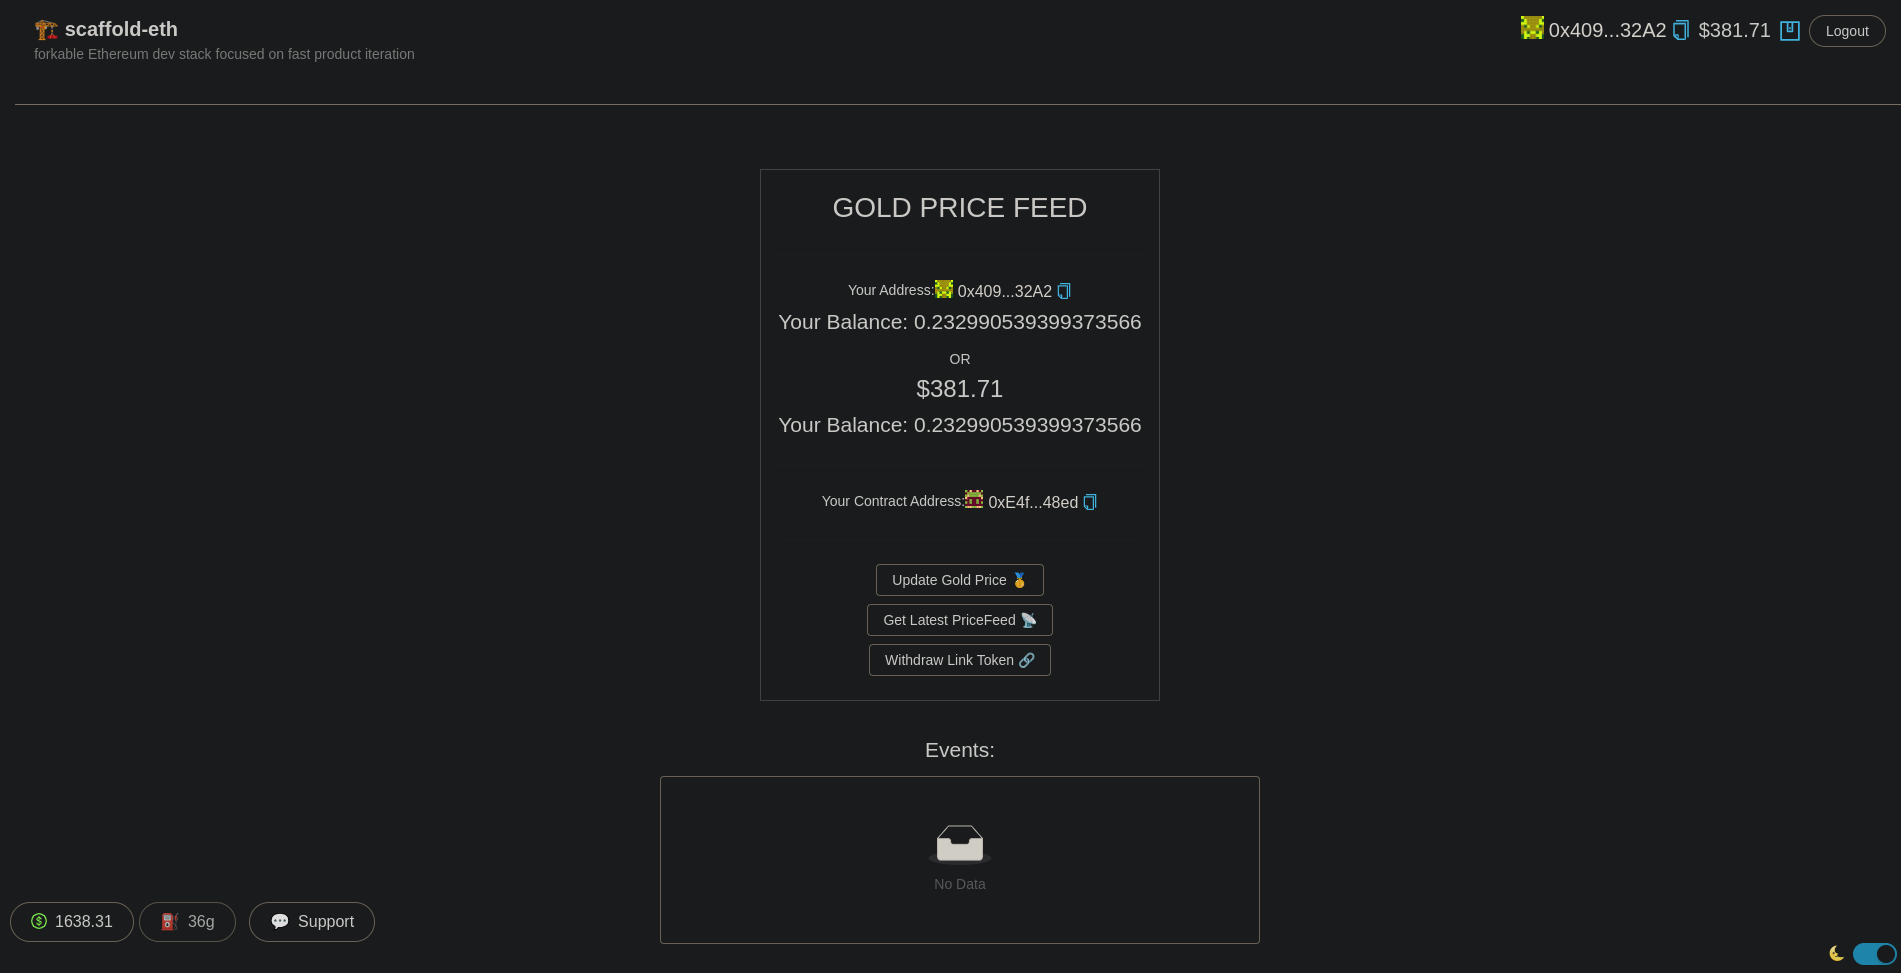
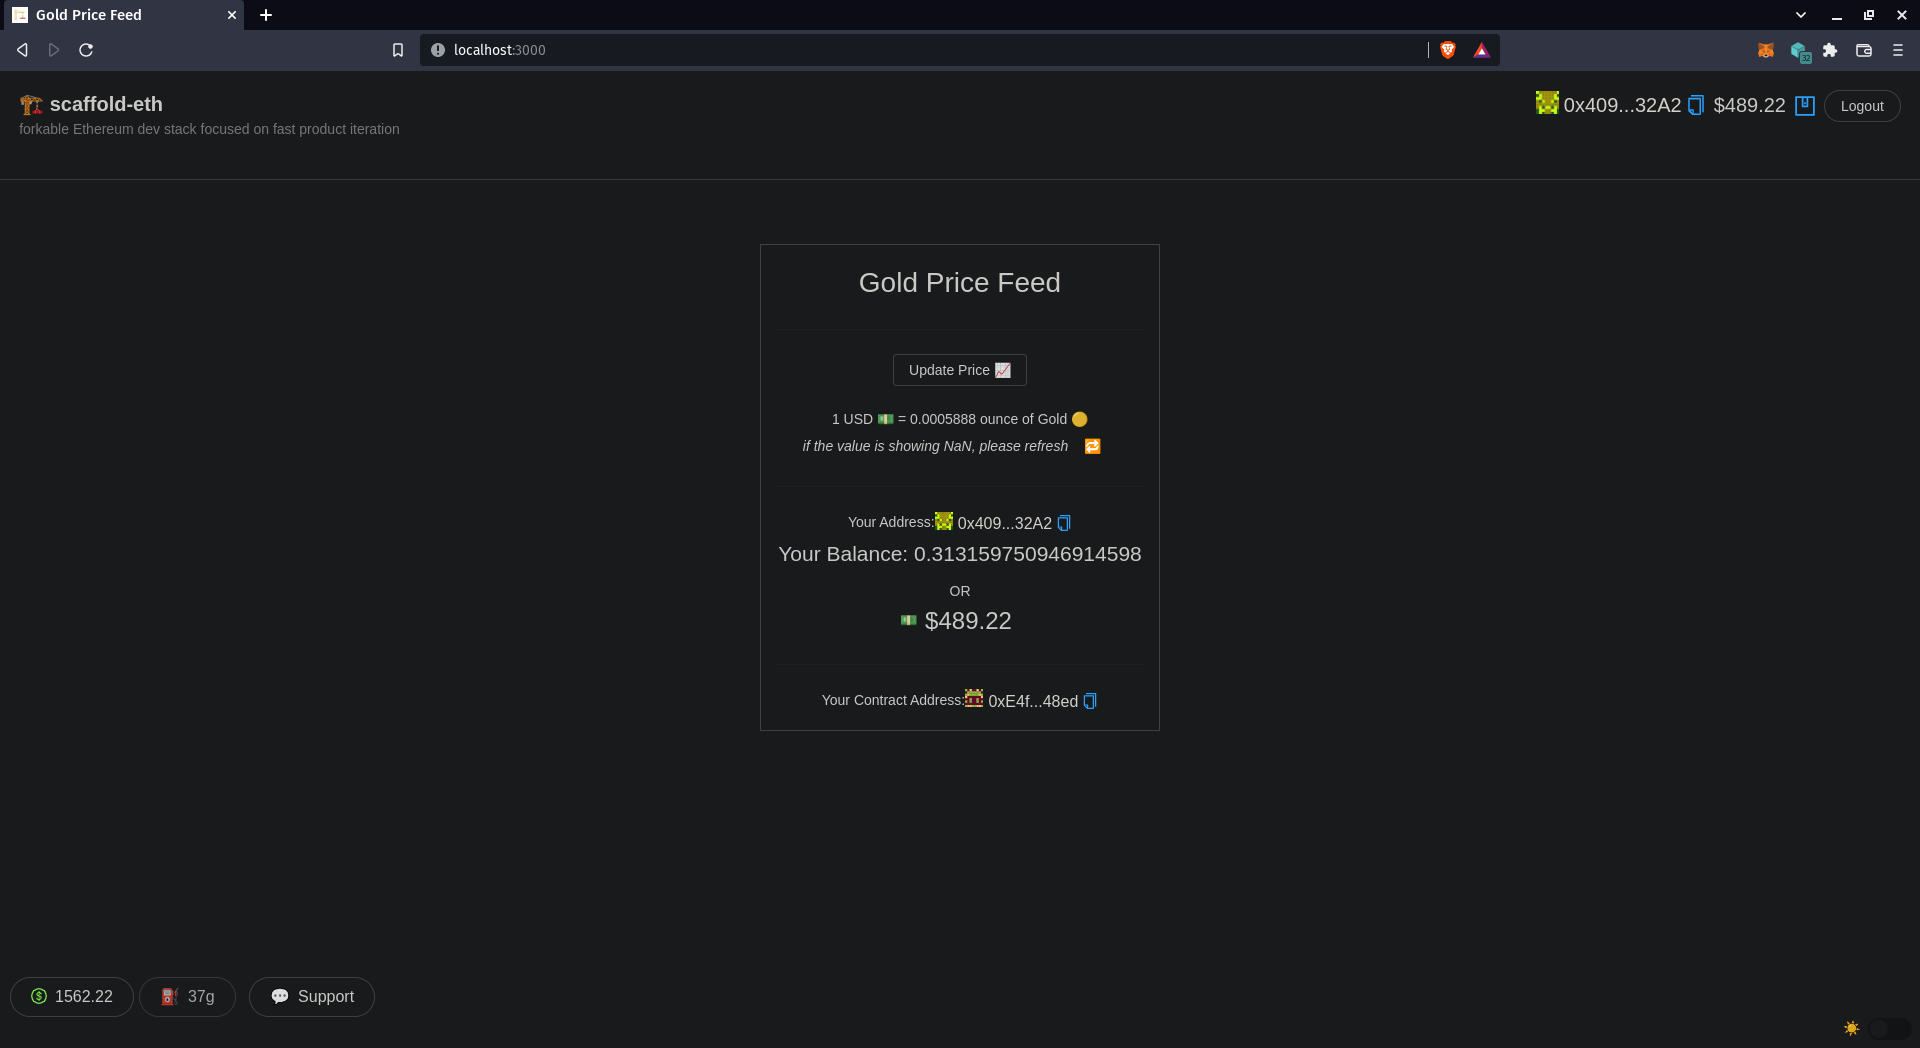
updated UI and README

diff --git a/packages/react-app/src/views/Home.jsx b/packages/react-app/src/views/Home.jsx
@@ -32,7 +32,19 @@ function Home({ tx, address, yourLocalBalance, localProvider, price, readContrac
           </Button>
           <br /> <br />
           <div>
-            1 USD 💵 = {currentPrice / 10000000} ounce of Gold
+            1 USD 💵 = {currentPrice / 10000000} ounce of Gold 🟡
+          </div>
+          <div>
+            <i>if the value is showing NaN, please refresh</i>
+            <Button
+            type="link"
+            onClick={async () => {
+              const goldPrice = await readContracts.GoldPriceFeed.getGoldPrice()
+              setCurrentPrice(goldPrice.toString())
+            }}
+            >
+              🔁
+            </Button>
           </div>
         </div>
         <Divider/>

diff --git a/README.md b/README.md
@@ -1,38 +1,58 @@
 # Gold Price Feed using Scaffold ETH
 
-You must have a [metamask](https://metamask.io/) wallet and some `Goerli` tokens to test this app.
-* Create and get started with meta mask
+You must have a [metamask](https://metamask.io/) wallet and some `Goerli` tokens, and `LINK` tokens as well to test this app.
+* Create and get started with [meta mask](https://metamask.io/)
 * Get some `Goerli` eth from [Goerli Faucet](https://goerlifaucet.com/)
 * Get some `Link` toke as well to fund the contract so it can make api calls - [Chainlink Faucet](https://faucets.chain.link)
 
 ## Introduction
 
-This contract fetchs the latest price of the gold from `metals-api.com` per ounce in terms of USD and displays it to the user.
+This contract fetchs the latest price of the gold from `metals-api.com` in terms of USD and displays it, comparatively to the user. Initally the price is set to outdated value of gold (at time the project was last updated), but user can get the latest price by clicking `Update Price 📈`.
 
 ## Getting Started
 
 * clone this repo
+
+```
+git clone https://github.com/priyanshu87694/Gold-Price-Feed-Scaffold-Eth.git
+```
+
 * install all the packeges - `yarn install`
+
+## Chainlink packages
+
+* This contract is using chainlink's api call service make sure to add @chainlink/contract
+
+```
+yarn add @chainlink/contracts
+```
 
 ## Working
 
-Get the local hardhat chain to run 
+* Start the development server
 
-```
-yarn chain
-```
+    ```
+    yarn start
+    ```
 
-or we can ignore it because this app needs user to run on `Goerli`
+* Deploy the contract
 
-```
-yarn start
-```
+    ```
+    yarn deploy --tags goldPriceFeed --network goerli
+    ```
 
-```
-yarn deploy --tags goldPriceFeed --network goerli
-```
+* After deploying the contract don't forget to fund it with the `LINK` token
+    [check here](https://docs.chain.link/docs/fund-your-contract/)
 
-After deployin the contract don't forget to fund it with the `LINK` token
-Copy the address showing the front end as "Your Contract Address:"
+* Copy the address showing the front end as "Your Contract Address:" at the bottom
+
+* Send at least `LINK` to this contract
+
+## Warning ⚠
+
+This project is using `metalsapi` free services that gives access to api calls only 50 time a month, so if the transaction fails for some reason unknown, or shows some error `UNESTIMATED_GAS_ERROR` or some `FUNDS_UNAVAILABLE` it may have crossed the usage limit for the month, it has nothing to do with insufficient funds solidity does not handle outside contract error so well.
+This error is not handled might add some thing later.
+
+Please 🙏 do not exploit the api calls by calling it again and again if it works.
 
 ![ScreentShot](screenshot.png)
